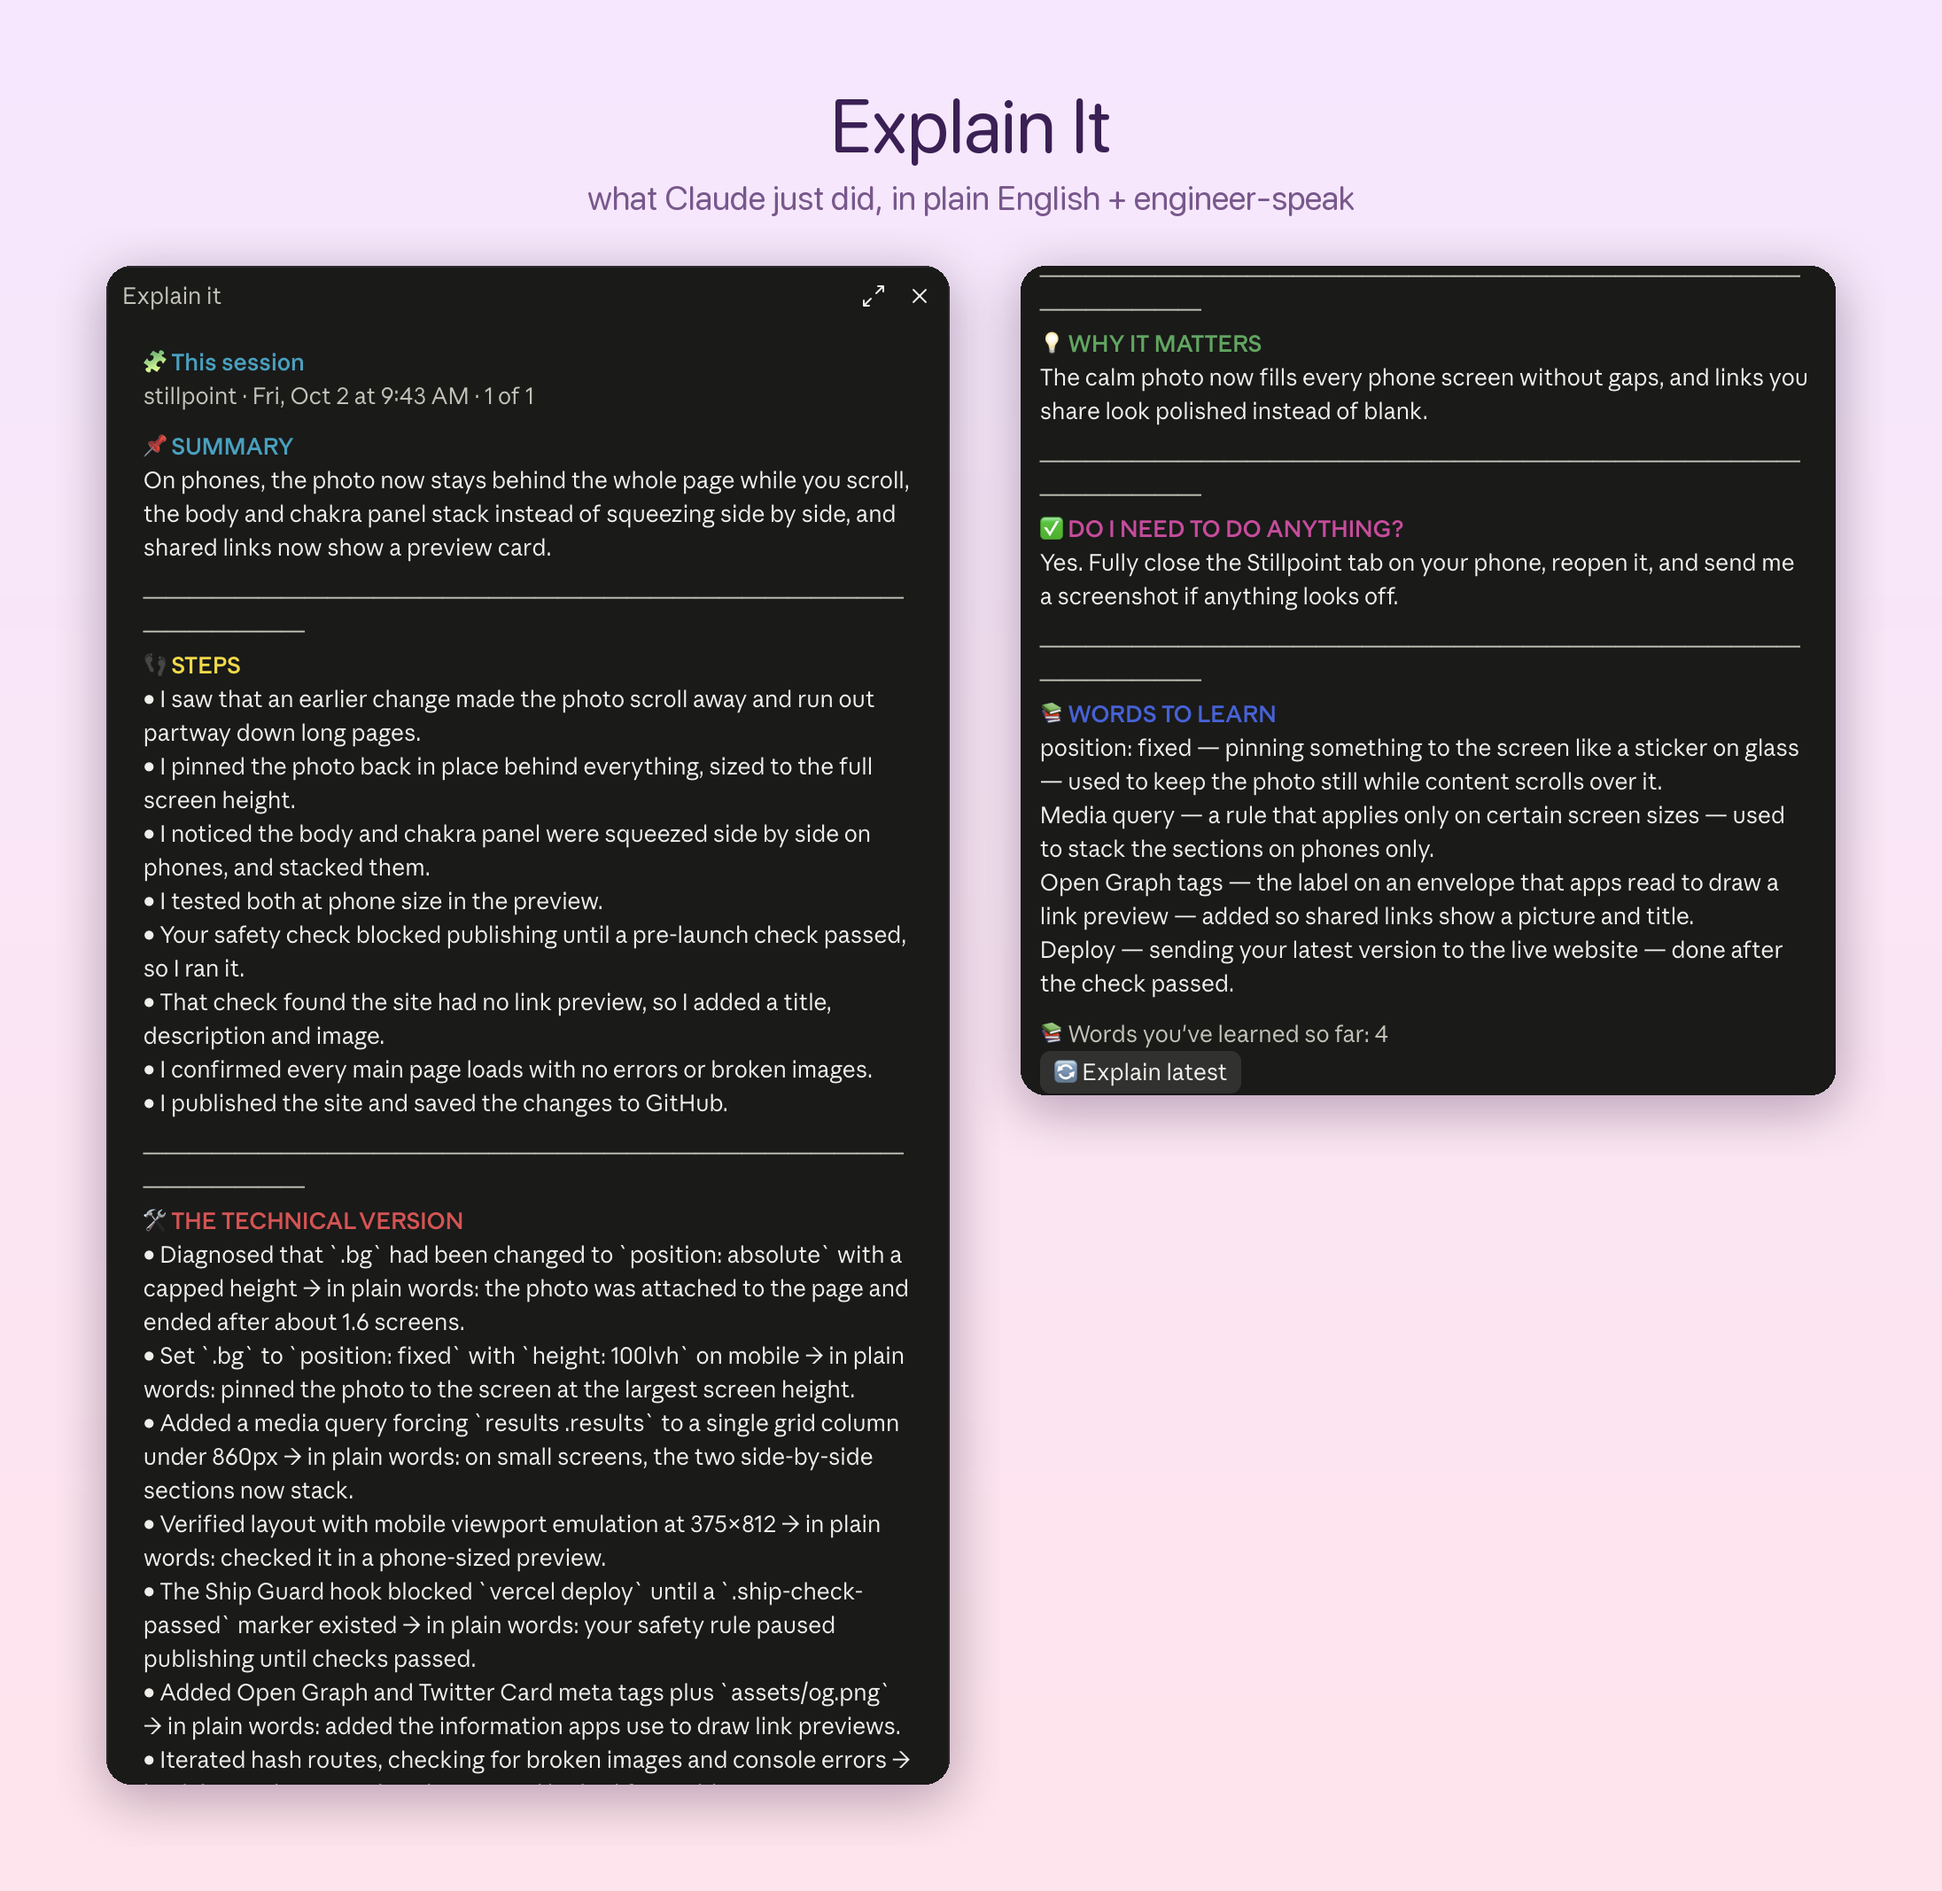
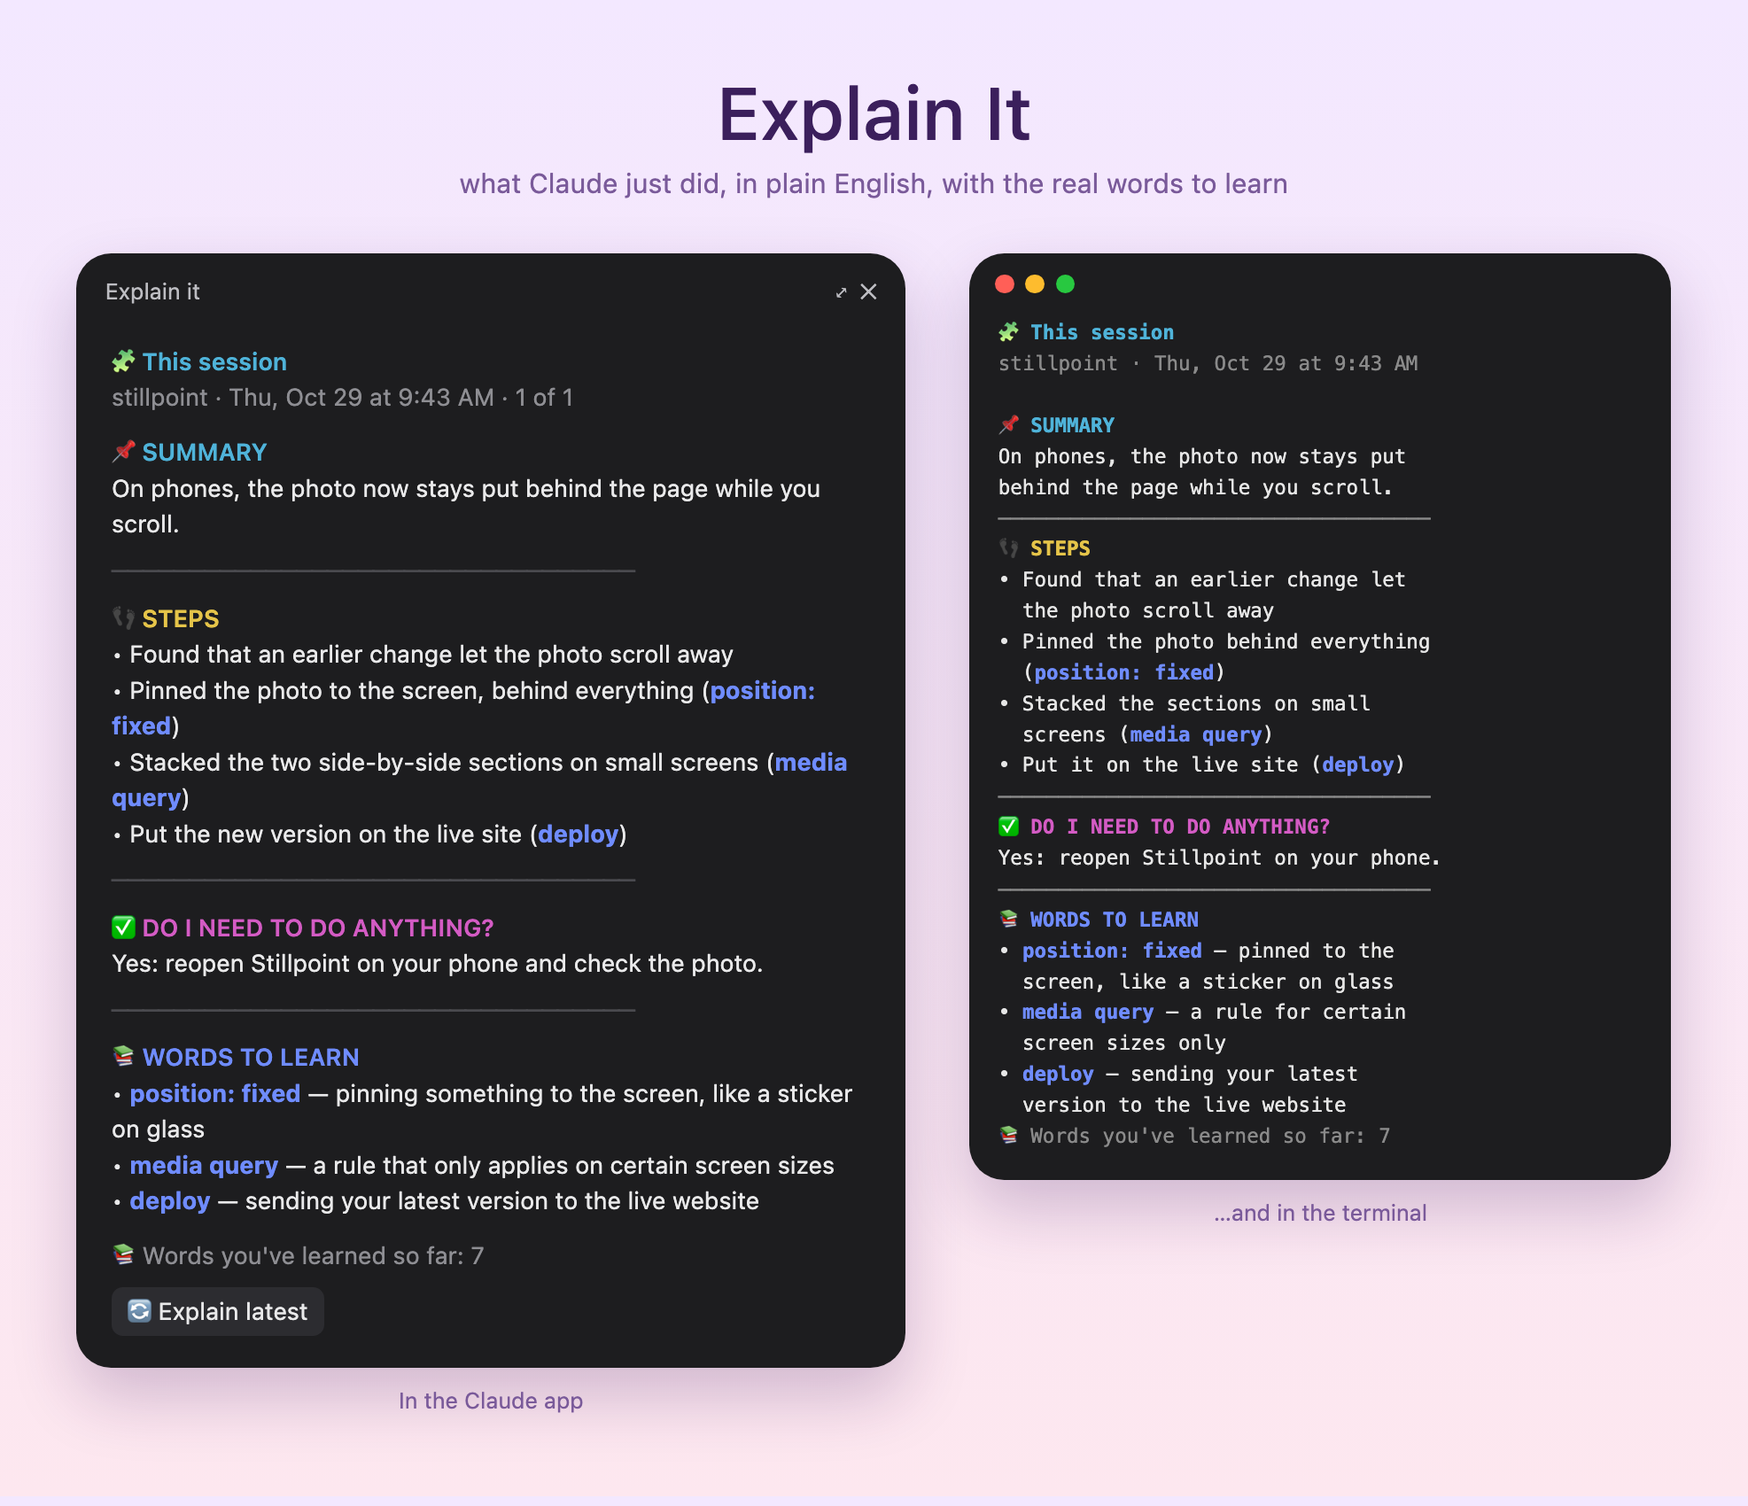
New screenshot for the shorter format

Changed region(s): [[0.0309, 0.0312, 0.9584, 0.9665], [0.8657, 0.4988, 0.8966, 0.53]]

diff --git a/README.md b/README.md
@@ -11,9 +11,7 @@ After Claude changes files or runs commands, a small **Explain it** button appea
 
 It's kept under about 150 words, so it reads the same in the terminal and the desktop app.
 
-![Explain It in the Claude desktop app](docs/desktop.png)
-
-<p align="center"><img src="docs/terminal.png" alt="Explain It in the terminal" width="420"><br><sub>…and in the terminal</sub></p>
+![Explain It in the Claude desktop app and in the terminal](docs/desktop.png)
 
 ## Commands
 
